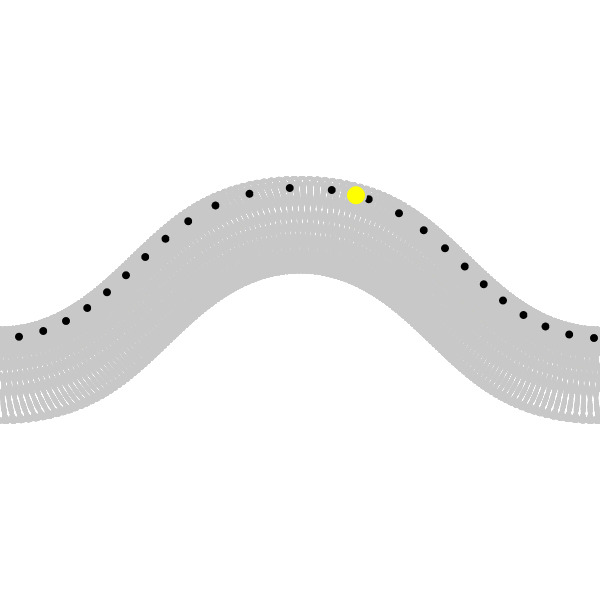
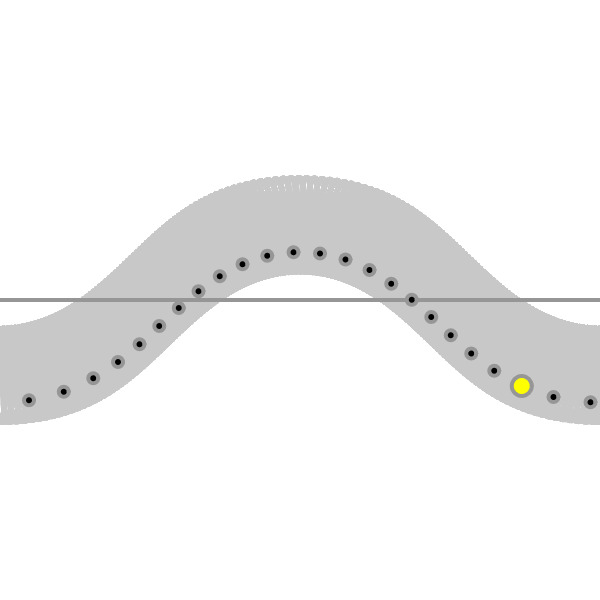
update

diff --git a/sketches/d02142025/sketch.js b/sketches/d02142025/sketch.js
@@ -1,0 +1,199 @@
+let reverseGeocoder = new BDCReverseGeocode();
+
+// let time = 12;
+const TILT = 0.40910517666747087;
+
+let lat, long;
+let declination, hourAngle;
+
+let polLoc; //political location
+
+function setup(){
+  createCanvas(windowWidth, windowHeight);
+  // createCanvas(300, 300);
+
+  getLocation();
+}
+
+function draw(){
+  background(255);
+
+  // info();
+
+  if(lat == undefined || long == undefined){
+    // text("loading...", width/2, height/2);
+  }  else {
+    // info();
+    drawAllPaths();
+
+    drawHorizon();
+    drawNow();
+  }
+}
+
+function keyPressed(){
+  if(key == "g"){
+    saveGif('thumb', 365, {units: 'frames'});
+  } else if(key == "p"){
+    saveCanvas('thumb', "jpg");
+  }
+}
+
+
+function info(){
+  fill(255);
+  noStroke();
+  rect(0, 0, width, 20);
+  fill(0);
+  // text(day + " "  + hour, 10, 10);
+  // text(`long; ${long} lat: ${lat}`, 10, 20);
+
+  if(polLoc){
+    text(polLoc, 10, 10);
+  }
+
+  print("here");
+}
+
+function calcPosition(day, hour){
+  let b = radians((360 / 365) * (day - 81)); // Earth's orbital position correction
+  let eot = 9.87 * sin(2 * b) - 7.53 * cos(b) - 1.5 * sin(b); // Equation of Time
+
+  //update vars for calculations
+
+  // declination = TILT * sin((TWO_PI / 365) * (day + 10));  //declination angle depends on the day of the year and the Earth's tilt
+  //above is off, here is the o3 explanation why...
+  //With this formula, on day 81 (around March 22) the declination is zero, which is what you expect for the equinox. Your version, using (day + 10), shifts the cycle so that when it’s February (say, day 42), the declination ends up positive (around 18° in your calculation), making the sun appear much higher than it should be for winter.
+  declination = TILT * sin((TWO_PI / 365) * (day - 81)); //this is right
+
+  // Adjust hourAngle using EoT (correction in minutes converted to degrees)
+  let timeCorrection = eot / 4.0; // EoT in minutes, convert to degrees
+
+  hourAngle = radians(15 * (hour - 12) + timeCorrection);
+
+  let pos = {}; //clears the psoitoins
+
+  pos.x = calcX();
+  pos.y = calcY();
+
+  return pos;
+}
+
+//3o reasoning
+function calcX(){
+  // First, compute the sun's elevation angle
+  let elevation = asin(
+    sin(radians(lat)) * sin(declination) +
+    cos(radians(lat)) * cos(declination) * cos(hourAngle)
+  );
+
+  // Then compute the azimuth using the correct formula
+  let cosAz = (sin(declination) - sin(radians(lat)) * sin(elevation)) /
+    (cos(radians(lat)) * cos(elevation));
+
+  // Due to precision issues, ensure cosAz is in [-1, 1]
+  cosAz = constrain(cosAz, -1, 1);
+
+  let azimuth = acos(cosAz);
+
+  // Adjust the azimuth based on the sign of sin(hourAngle)
+  // (Note: some sources adjust based on sin(azimuth) or use atan2 instead)
+  if (sin(hourAngle) > 0) {
+    azimuth = TWO_PI - azimuth;
+  }
+
+  return map(azimuth, 0, TWO_PI, 0, width); // Map azimuth to screen width
+}
+
+function calcY(){
+  //caclulate the y position of the sun
+  let elevation = asin(
+    sin(radians(lat)) * sin(declination) +
+    cos(radians(lat)) * cos(declination) * cos(hourAngle)
+  );
+
+  return map(elevation, -PI / 2, PI / 2, height * 0.8, height * 0.2); // Higher Sun = higher y value
+}
+
+async function getLocation() {
+  if (navigator.geolocation) {
+    navigator.geolocation.getCurrentPosition((pos)=> {
+      lat = pos.coords.latitude;
+      long = pos.coords.longitude;
+      updateLocationInfo(lat, long);
+
+    }).toFixed(7);
+  } else {
+    console.log("no navigator so santa claus");
+    lat = 28.4193608
+    long = -81.5812633
+    updateLocationInfo(lat, long);
+  }
+}
+
+function updateLocationInfo(lat, long){
+  reverseGeocoder.getClientLocation({
+    latitude: Number(lat),
+    longitude: Number(long),
+  },function(result) {
+    console.log(result);
+    polLoc = `${result.city}, ${result.countryCode}`
+    // el.innerHTML = loc; //set the html to the lcoation
+    let cityText = document.querySelector("#location").innerText = polLoc;
+    let latText = document.querySelector("#lat").innerText = lat.toFixed(7); 
+    let longText = document.querySelector("#long").innerText = long.toFixed(7); 
+  });
+
+}
+
+function drawAllPaths(){
+  //draw horizion
+  stroke(200);
+  // line(0, height * 0.8, width, height * 0.8);
+
+  for(let hour = 0; hour < 24; hour += 1){
+    for(let day = 0; day < 365; day++){
+
+      let pos = calcPosition(day, hour);
+      ellipse(pos.x, pos.y, 1, 1);
+    }
+  }
+
+}
+
+function drawNow(){
+  const now = new Date();
+  // Get start of the year
+  const startOfYear = new Date(now.getFullYear(), 0, 1);
+
+  // Compute the day number (1-based, meaning Jan 1st is 1)
+  const day = Math.floor((now - startOfYear) / (1000 * 60 * 60 * 24)) + 1;
+
+  // Compute the hour with fractional minutes
+  const hour = now.getHours() + now.getMinutes() / 60;
+
+
+  for(let i = 0; i < 24; i += 1){
+    print("hello");
+    let pos = calcPosition(day, i);
+    fill(0);
+    stroke(0);
+    ellipse(pos.x, pos.y, 10, 10);
+  }
+
+  //de
+
+  let pos = calcPosition(day, hour);
+
+  fill( 253, 184, 19 );
+  stroke( 253, 184, 19 );
+  ellipse(pos.x, pos.y, 20, 20);
+}
+
+function drawHorizon() {
+  let horizonY = map(0, -PI / 2, PI / 2, height * 0.8, height * 0.2);
+  stroke(150);
+  strokeWeight(2);
+  line(0, horizonY, width, horizonY);
+}
+

diff --git a/sketches/d02142025/index.html b/sketches/d02142025/index.html
@@ -1,0 +1,31 @@
+<!DOCTYPE html>
+<html lang="en">
+  <head>
+    <script src="https://cdnjs.cloudflare.com/ajax/libs/p5.js/1.10.0/p5.js"></script>
+  <script src="https://cdn.jsdelivr.net/gh/bigdatacloudapi/js-reverse-geocode-client@latest/bigdatacloud_reverse_geocode.min.js" type="text/javascript"></script>
+    <!-- no internet? use the local version of p5 -->
+    <!-- <script src="../p5.js"></script> --> 
+    <!-- <script src="https://cdnjs.cloudflare.com/ajax/libs/p5.js/1.10.0/addons/p5.sound.min.js"></script> -->
+<link rel="preconnect" href="https://fonts.googleapis.com">
+<link rel="preconnect" href="https://fonts.gstatic.com" crossorigin>
+<link href="https://fonts.googleapis.com/css2?family=IBM+Plex+Sans&display=swap" rel="stylesheet">
+    <link rel="stylesheet" type="text/css" href="style.css">
+    <meta charset="utf-8" />
+
+  </head>
+  <body>
+    <main>
+      <header>
+        <h1>Analemma Timepiece</h1> 
+        <p>Showing the suns current position. Hours of the day represented by black dots. Path of the sun over the year shown by grey lines.</p>
+      </header>
+      <div id="info">
+        <h1 id="location">loading...</h1>
+        <p>Latitude: <span id="lat">loading...</span><p>
+        <p>Longitude: <span id="long">loading...</span><p>
+      </div>
+    </main>
+    <script src="sketch.js"></script>
+  </body>
+</html>
+

diff --git a/sketches/d02142025/style.css b/sketches/d02142025/style.css
@@ -1,0 +1,35 @@
+body {
+  margin: 0px;
+  
+  /* font shit */
+  font-family: "IBM Plex Sans", serif;
+  font-optical-sizing: auto;
+  font-weight: 400;
+  font-style: normal;
+  font-variation-settings:
+    "wdth" 100
+}
+
+#info {
+  display: flex;
+  position: fixed;
+  justify-content: space-between;
+  width: 100%;
+  /* background-color: pink; */
+  padding: 20px;
+  bottom: 5px;
+
+  align-items: center;
+}
+
+
+header {
+  position: fixed;
+  left: 10px;
+  top: 10px;
+}
+
+h1 {
+  font-size: 3rem;
+  margin: 0;
+}
